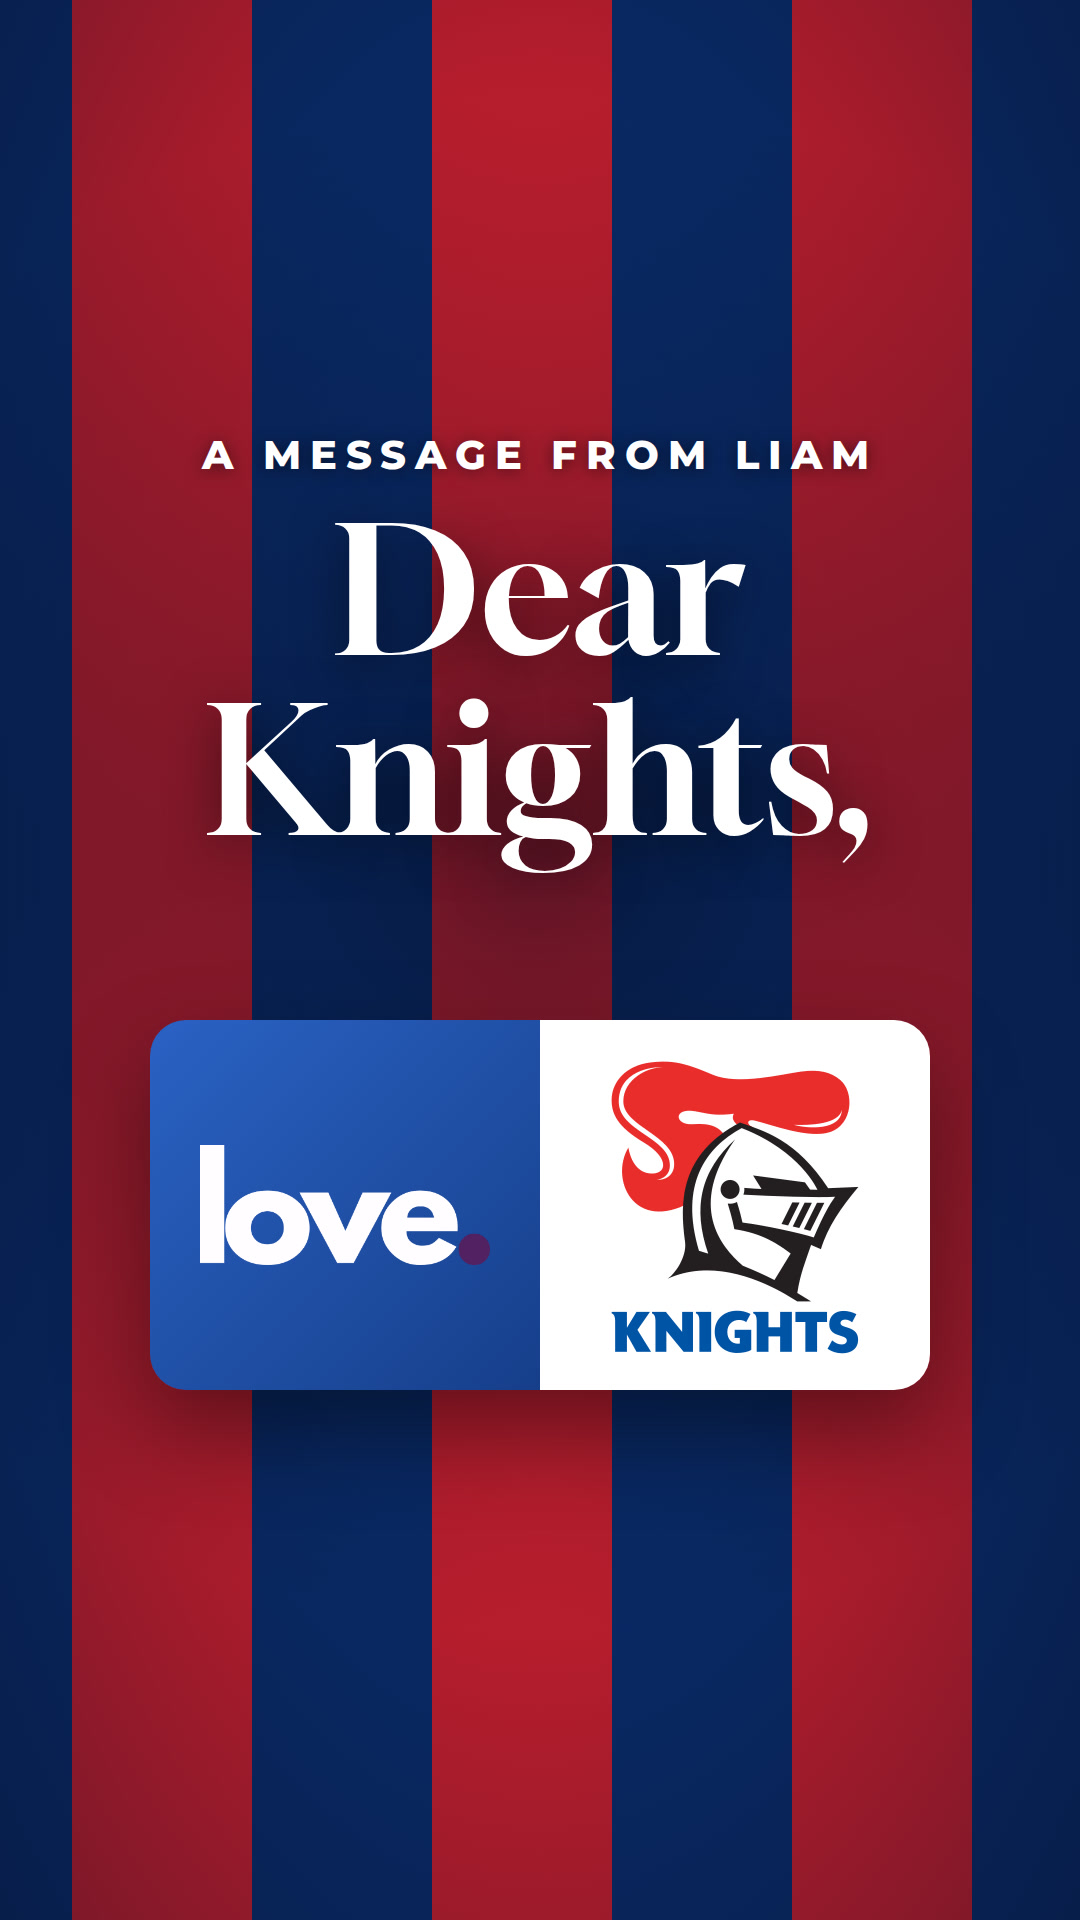
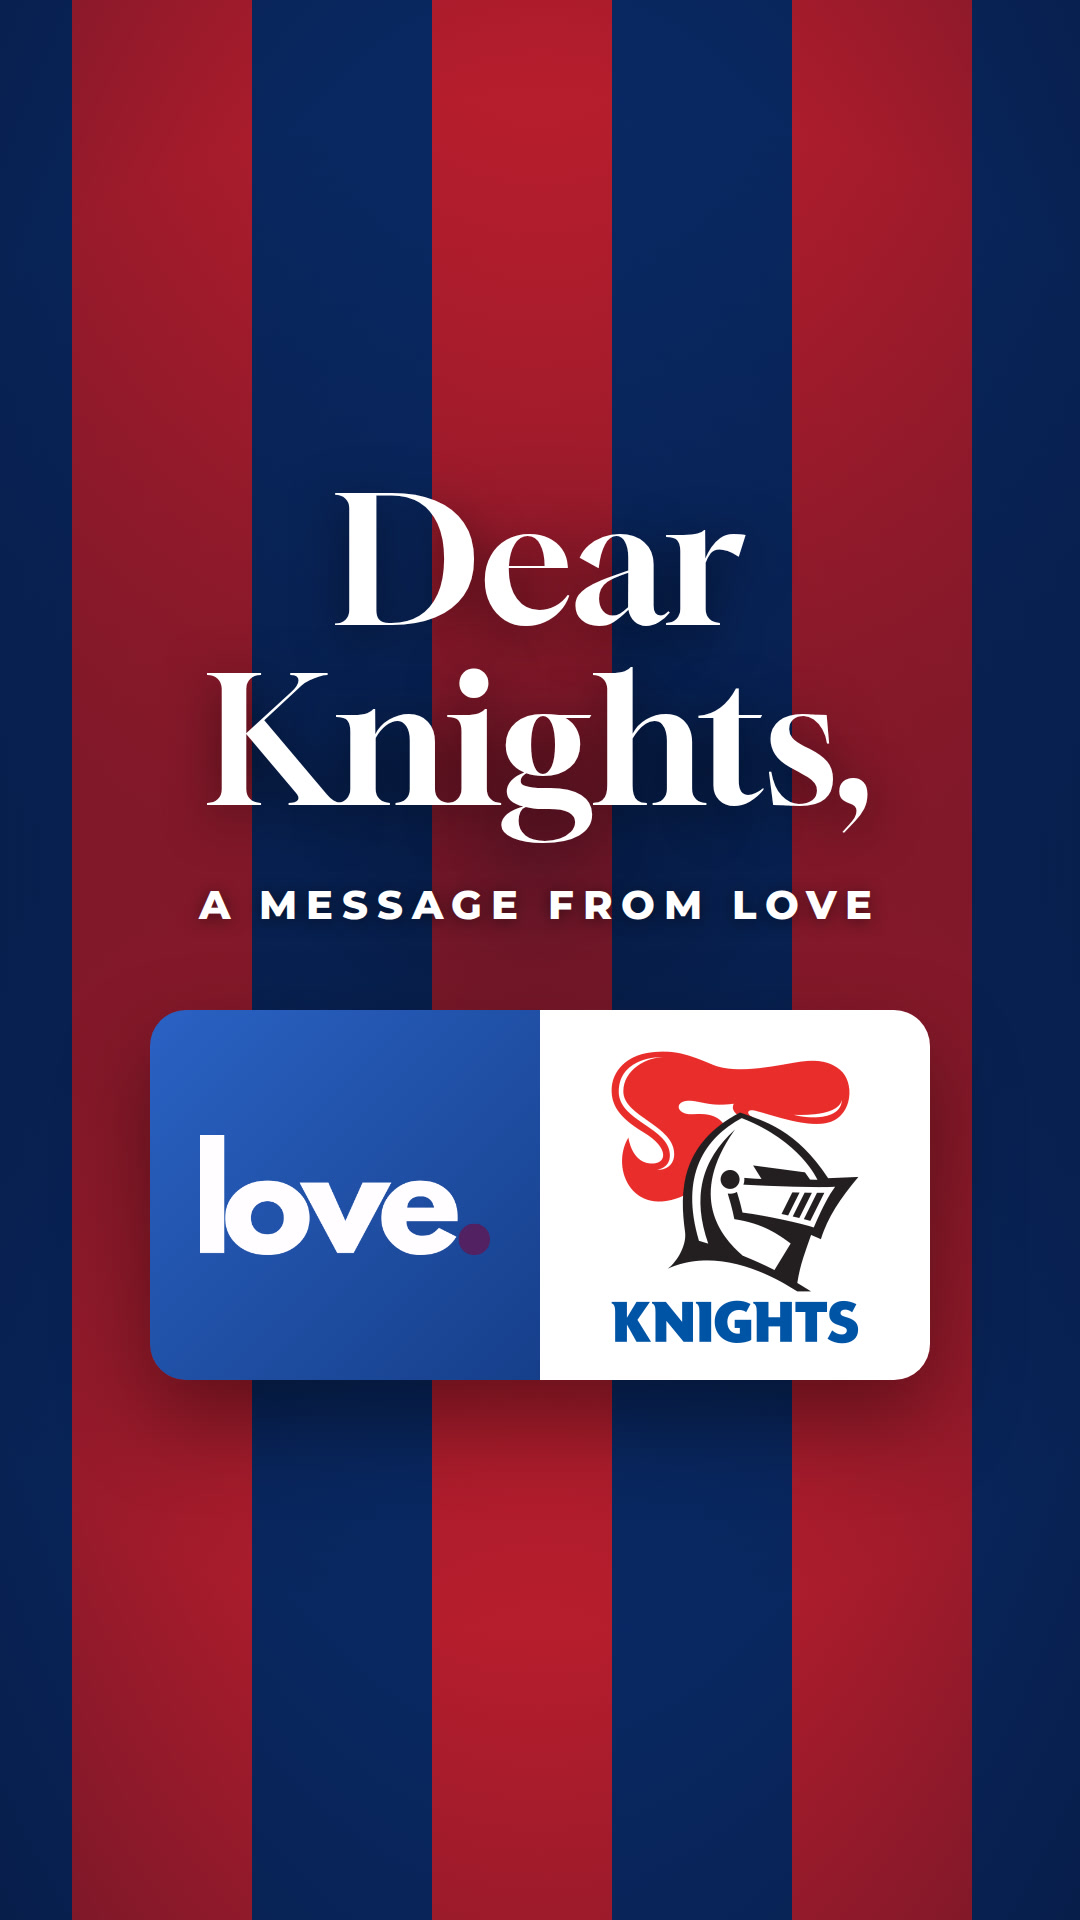
Cover reads 'Dear Knights, a message from Love'
Claude-Session: https://claude.ai/code/session_01XsF2xJe8jbaLB5CNJ5u75U

Changed region(s): [[0.1528, 0.2188, 0.8556, 0.75], [0.1833, 0.5938, 0.4583, 0.6562], [0.1833, 0.2188, 0.2139, 0.25]]

diff --git a/outros/knights/outro.html b/outros/knights/outro.html
@@ -407,11 +407,11 @@ VARIANTS.thumb = function () {
   stage.style.background = NAVY;
   const bg = stripes({ angle: 0, width: 180, start: -10, drift: 0 });
   el("div", { position: "absolute", inset: 0, background: "radial-gradient(ellipse 80% 40% at 50% 45%, rgba(4,12,32,.55) 0%, rgba(4,12,32,0) 100%)" });
-  const sub = el("div", { position: "absolute", left: 0, right: 0, top: "430px", textAlign: "center", fontSize: "40px", textShadow: "0 2px 16px rgba(0,0,0,.5)" }, stage, params.get("sub") || "A message from Liam");
+  const sub = el("div", { position: "absolute", left: 0, right: 0, top: "880px", textAlign: "center", fontSize: "40px", textShadow: "0 2px 16px rgba(0,0,0,.5)" }, stage, params.get("sub") || "A message from Love");
   sub.className = "caps";
-  const head = el("div", { position: "absolute", left: "60px", right: "60px", top: "500px", textAlign: "center", fontSize: "176px", lineHeight: 1.02, textShadow: "0 10px 50px rgba(0,0,0,.5)" }, stage, params.get("head") || "Dear<br>Knights,");
+  const head = el("div", { position: "absolute", left: "60px", right: "60px", top: "470px", textAlign: "center", fontSize: "176px", lineHeight: 1.02, textShadow: "0 10px 50px rgba(0,0,0,.5)" }, stage, params.get("head") || "Dear<br>Knights,");
   head.className = "serif";
-  const card = el("div", { position: "absolute", left: "150px", width: "780px", top: "1020px", height: "370px", borderRadius: "36px", overflow: "hidden", display: "flex", boxShadow: "0 40px 90px rgba(0,0,0,.4)" });
+  const card = el("div", { position: "absolute", left: "150px", width: "780px", top: "1010px", height: "370px", borderRadius: "36px", overflow: "hidden", display: "flex", boxShadow: "0 40px 90px rgba(0,0,0,.4)" });
   const left = el("div", { flex: 1, background: "linear-gradient(135deg, #2a62c4 0%, #163f8a 100%)", display: "grid", placeItems: "center" }, card);
   const right = el("div", { flex: 1, background: "#fff", display: "grid", placeItems: "center" }, card);
   logoSlot(left, "love", 290, 140, "#fff");
